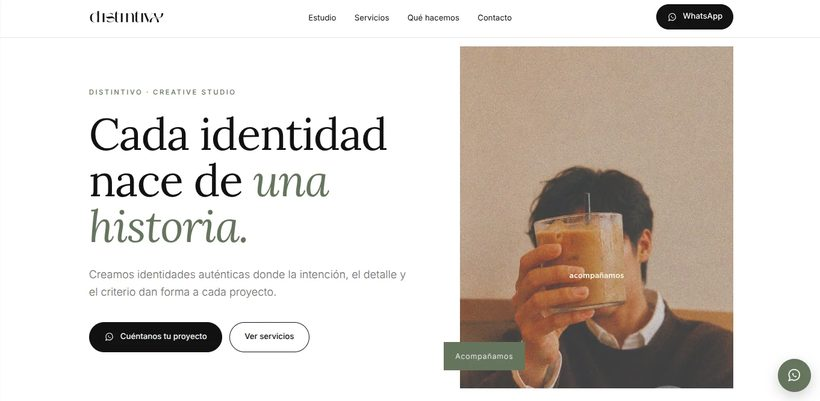
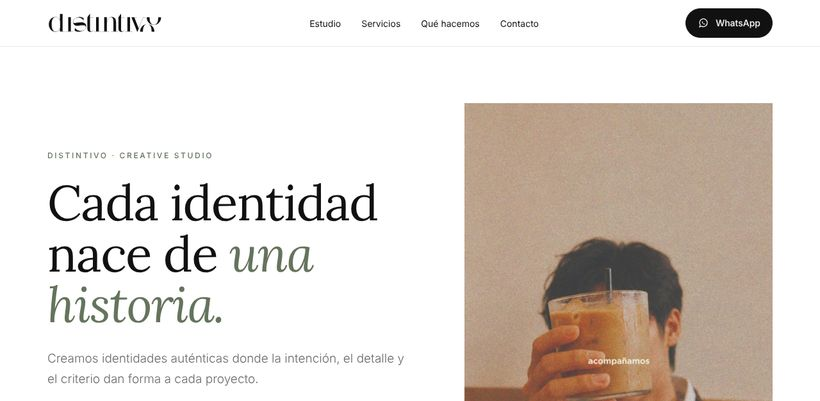
Portfolio con enlaces reales y capturas largas que se deslizan; INVICTO Barber Shop sustituye al salón de uñas
Claude-Session: https://claude.ai/code/session_0182rHn8H7pjoHPKxR4rMPap

diff --git a/web/index.html b/web/index.html
@@ -235,8 +235,8 @@
     <div class="ancho">
       <div class="cab rev">
         <span class="eyebrow">Trabajos</span>
-        <h2 class="titulo">Webs que ya hemos hecho <i>para clientes reales</i></h2>
-        <p class="entrada">Pasa el ratón por encima para recorrer cada web.</p>
+        <h2 class="titulo">Algunos de <i>nuestros trabajos</i></h2>
+        <p class="entrada">Pasa el ratón por encima para recorrer cada web, o ábrela y pruébala tú mismo.</p>
       </div>
       <div class="trabajos">
         <article class="trabajo rev">
@@ -255,9 +255,9 @@
           <div class="trabajo-pie"><div><small>Reformas</small><h3>Empresa de reformas</h3><p>Servicios, proyectos y petición de presupuesto.</p></div><a class="ver" data-port="Empresa de reformas" hidden href="#" target="_blank" rel="noopener">Ver la web <svg class="ico"><use href="#i-flecha"/></svg></a></div>
         </article>
         <article class="trabajo rev d1">
-          <div class="trabajo-in"><div class="marco"><div class="barra"><i></i><i></i><i></i><span data-port-url="Aura Burgos Nails Studio">salón de uñas · Valencia</span></div>
-            <div class="vista"><img class="corta" data-larga="Aura Burgos Nails Studio" src="/img/trabajos/aura-nails.jpg" alt="Web de Aura Burgos Nails Studio, salón de uñas de Valencia" width="820" height="401" loading="lazy"/></div></div></div>
-          <div class="trabajo-pie"><div><small>Salón de uñas · Valencia</small><h3>Aura Burgos Nails Studio</h3><p>Servicios, galería y cita por WhatsApp.</p></div><a class="ver" data-port="Aura Burgos Nails Studio" hidden href="#" target="_blank" rel="noopener">Ver la web <svg class="ico"><use href="#i-flecha"/></svg></a></div>
+          <div class="trabajo-in"><div class="marco"><div class="barra"><i></i><i></i><i></i><span data-port-url="INVICTO Barber Shop">barbería · Burjassot</span></div>
+            <div class="vista"><img class="corta" data-larga="INVICTO Barber Shop" src="/img/trabajos/invicto.jpg" alt="Web de INVICTO Barber Shop, barbería en Burjassot" width="820" height="401" loading="lazy"/></div></div></div>
+          <div class="trabajo-pie"><div><small>Barbería · Burjassot</small><h3>INVICTO Barber Shop</h3><p>Carta de servicios, galería y reserva de cita online.</p></div><a class="ver" data-port="INVICTO Barber Shop" hidden href="#" target="_blank" rel="noopener">Ver la web <svg class="ico"><use href="#i-flecha"/></svg></a></div>
         </article>
       </div>
     </div>
@@ -430,7 +430,7 @@
   </div>
 </section>
 
-<script src="datos.js?v=5"></script>
+<script src="datos.js?v=6"></script>
 <script src="/js/app.js?v=1" defer></script>
 </body>
 </html>

diff --git a/web/js/app.js b/web/js/app.js
@@ -20,9 +20,9 @@
   var P = D.portfolio || {}, C = D.capturas || {};
   $$("[data-port]").forEach(function (a) { var u = P[a.getAttribute("data-port")]; if (u) { a.href = u; a.hidden = false; } });
   $$("[data-port-url]").forEach(function (s) { var u = P[s.getAttribute("data-port-url")]; if (u) s.textContent = u.replace(/^https?:\/\//, "").replace(/\/$/, ""); });
-  $$("img[data-larga]").forEach(function (img) {
+  function cargarLarga(img) {
     var src = C[img.getAttribute("data-larga")]; if (!src) return;
-    var larga = new Image(); larga.alt = img.alt; larga.className = "larga"; larga.loading = "lazy"; larga.decoding = "async";
+    var larga = new Image(); larga.alt = img.alt; larga.className = "larga"; larga.decoding = "async";
     larga.onload = function () {
       var vista = img.parentNode; vista.replaceChild(larga, img);
       var pista = d.createElement("span"); pista.className = "pista"; pista.textContent = tactil ? "Se desliza sola" : "Pasa el ratón"; vista.appendChild(pista);
@@ -30,7 +30,13 @@
       function medir() { var dist = Math.max(0, larga.offsetHeight - vista.offsetHeight); vista.style.setProperty("--dist", dist + "px"); vista.style.setProperty("--dur", Math.min(12, Math.max(3, dist / 220)) + "s"); }
     };
     larga.src = src;
-  });
+  }
+  // las capturas largas pesan: se cargan solo cuando la tarjeta está cerca de la pantalla
+  var largas = $$("img[data-larga]");
+  if ("IntersectionObserver" in w) {
+    var ioL = new IntersectionObserver(function (es) { es.forEach(function (e) { if (e.isIntersecting) { ioL.unobserve(e.target); cargarLarga(e.target); } }); }, { rootMargin: "600px 0px" });
+    largas.forEach(function (img) { ioL.observe(img); });
+  } else { largas.forEach(cargarLarga); }
 
   /* ---------- opiniones reales (datos.js) ---------- */
   var O = D.opiniones || [];

diff --git a/web/datos.js b/web/datos.js
@@ -14,13 +14,18 @@ window.DATOS = {
   dominio:   "obraweb.es",  // Ej: "obraweb.es"
   chatbot:   "https://hook.eu1.make.com/q2jyemzfefyl8rh8bmk6ivt72bwd1ard",  // Webhook de Make del asistente virtual (vacío = sin chatbot)
   // Capturas largas de cada web del portfolio (se deslizan al pasar el ratón). Ej: "Flor & Atelier": "/img/trabajos/flor-atelier-larga.jpg"
-  capturas: {},
+  capturas: {
+    "Flor & Atelier": "/img/trabajos/flor-atelier-larga.jpg",
+    "Distintivo": "/img/trabajos/distintivo-larga.jpg",
+    "Empresa de reformas": "/img/trabajos/reformas-larga.jpg",
+    "INVICTO Barber Shop": "/img/trabajos/invicto-larga.jpg"
+  },
   // Enlaces a las webs del portfolio (vacío = no se muestra el botón "Ver la web")
   portfolio: {
-    "Flor & Atelier": "",
-    "Distintivo": "",
-    "Empresa de reformas": "",
-    "Aura Burgos Nails Studio": ""
+    "Flor & Atelier": "https://floristeriademo.netlify.app/",
+    "Distintivo": "https://somosdistintivo.netlify.app/",
+    "Empresa de reformas": "https://reformademo.netlify.app/",
+    "INVICTO Barber Shop": "https://ehebhchgqbghcbh.netlify.app/"
   },
   // Opiniones REALES de clientes. Ej: { nombre: "Laura", negocio: "Flor & Atelier", texto: "..." }
   opiniones: []
